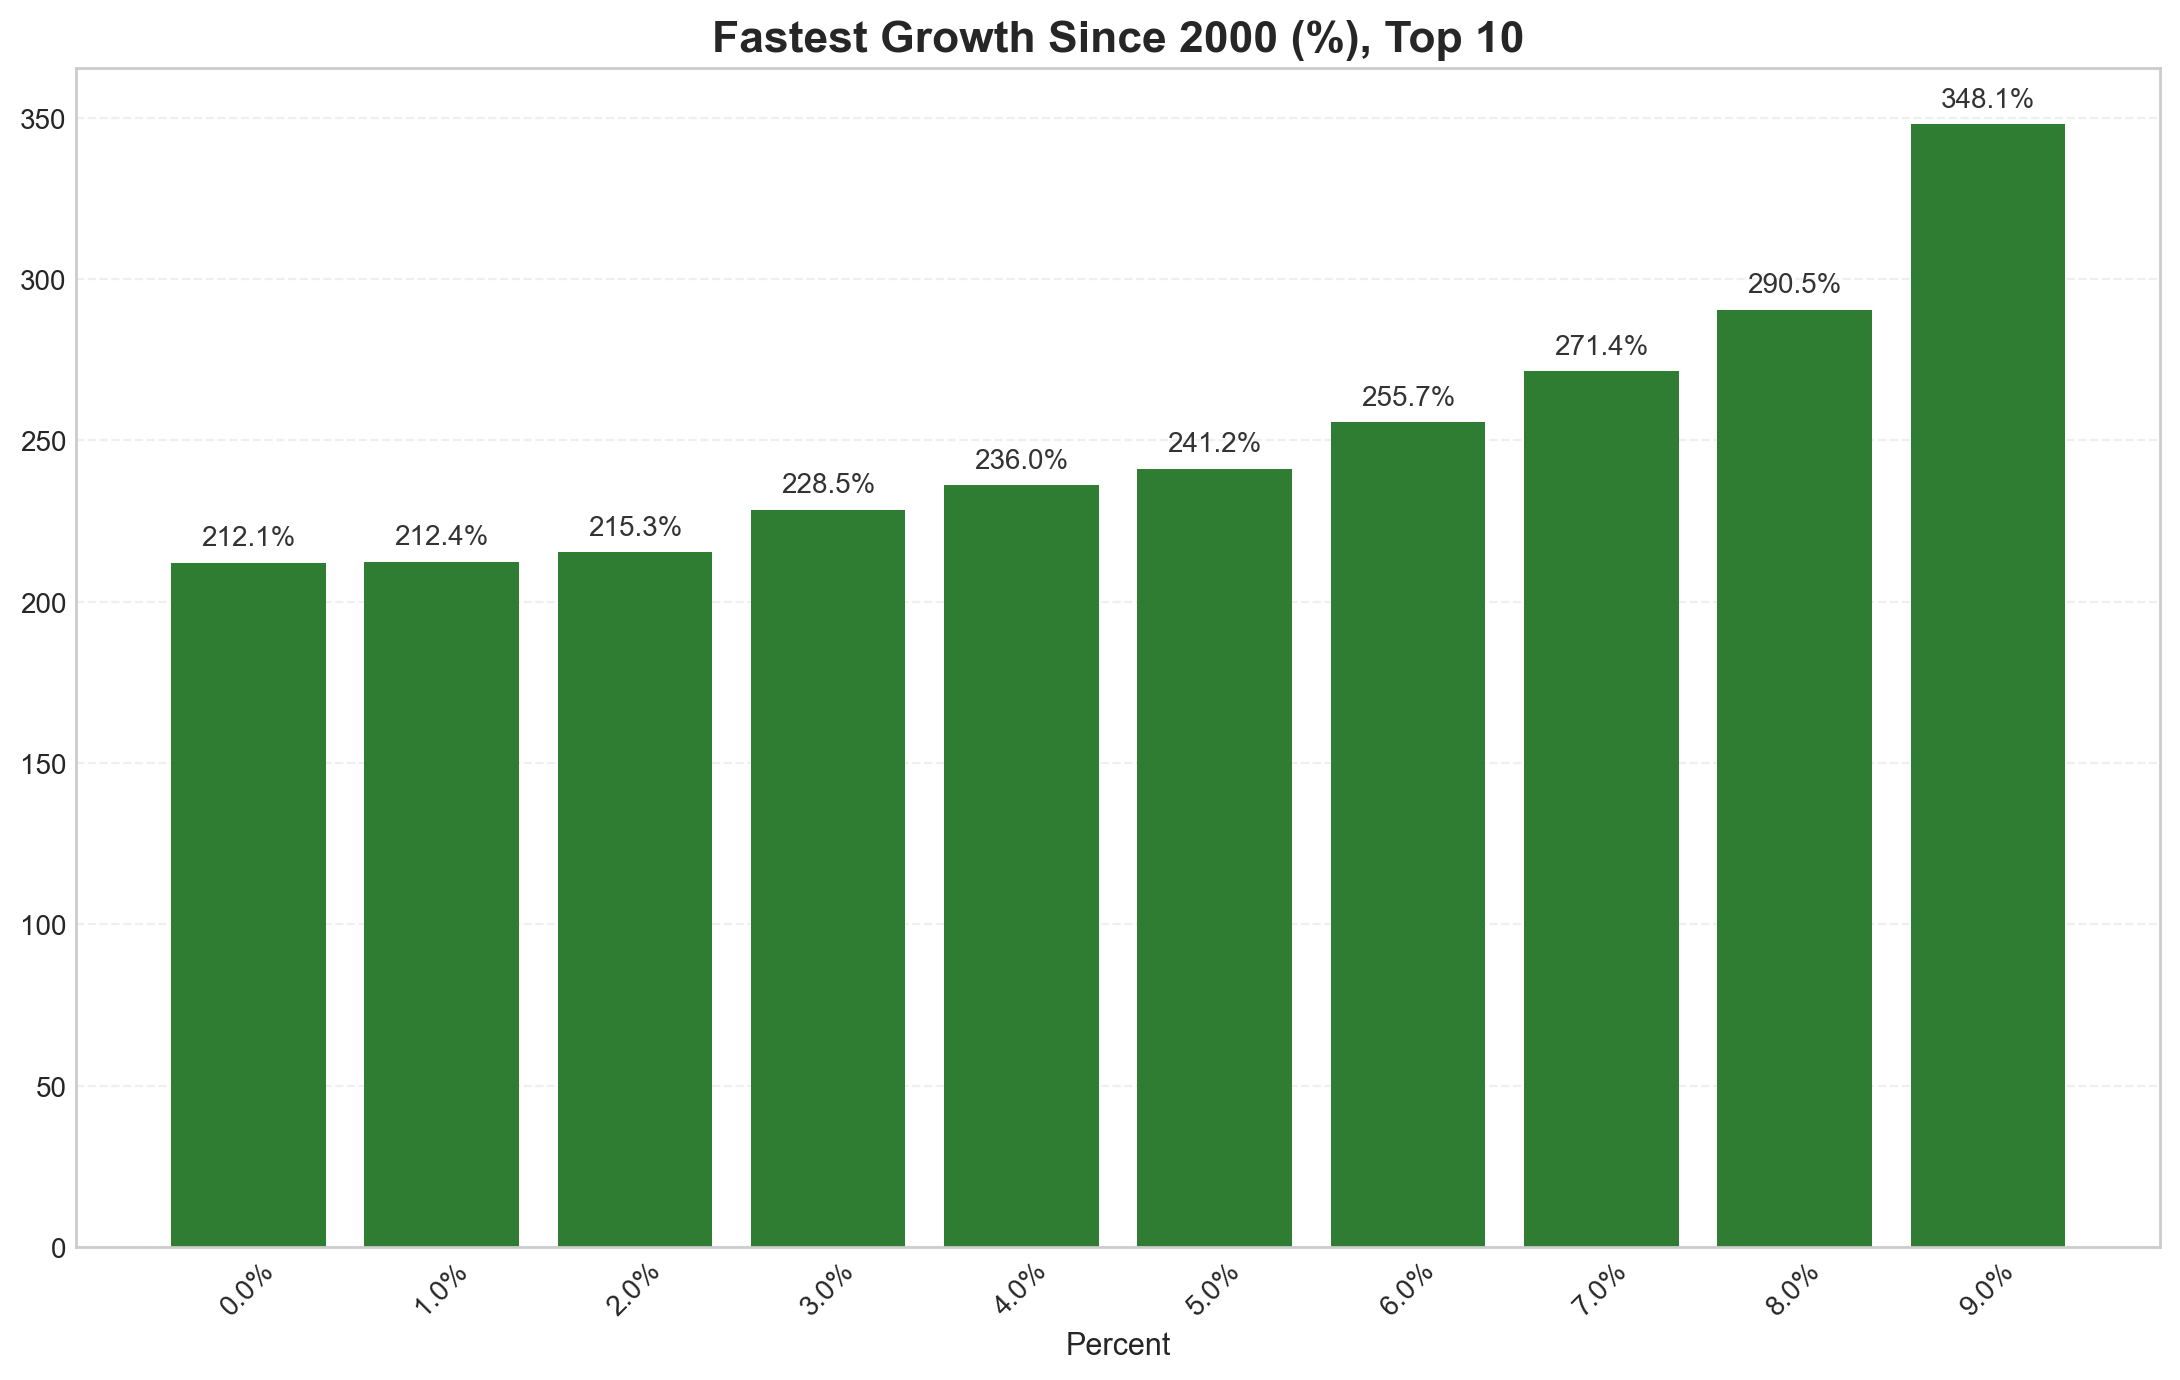
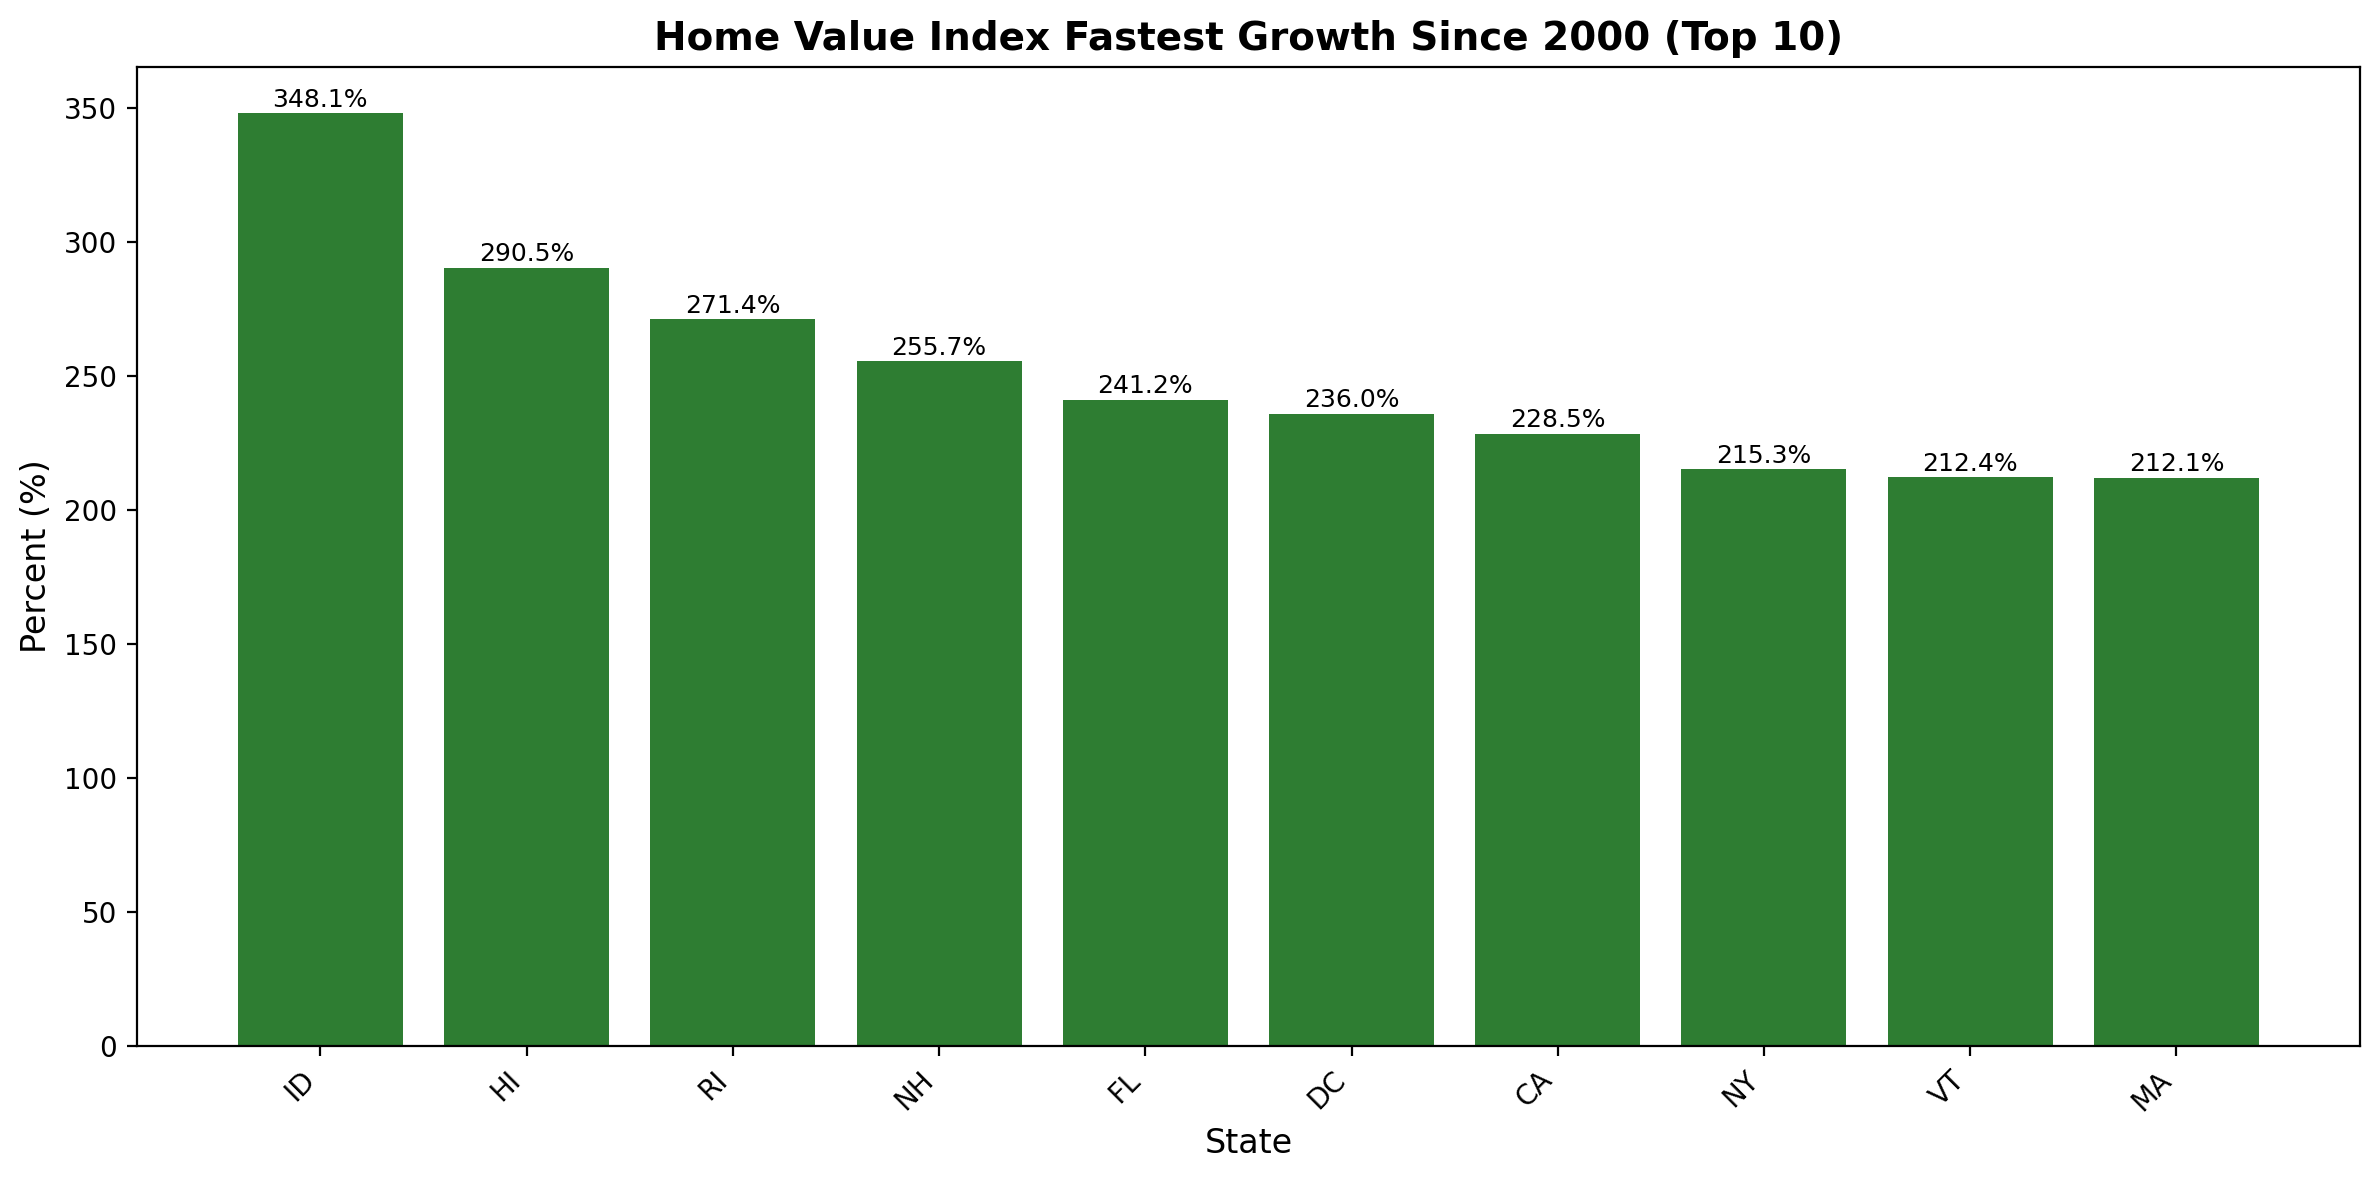
Update chart: new title, Y-axis with %, X-axis states, highest values on left

Changed region(s): [[0.0, 0.0, 0.9982, 1.0], [0.0, 0.3051, 0.0624, 0.3356], [0.0, 0.1831, 0.0624, 0.2136]]

diff --git a/housing-portfolio/scripts/run_analysis.py b/housing-portfolio/scripts/run_analysis.py
@@ -10,7 +10,6 @@ from pathlib import Path
 import duckdb
 import pandas as pd
 import matplotlib.pyplot as plt
-import matplotlib.ticker as mtick
 
 REPO = Path(__file__).resolve().parents[1]
 DATA = REPO / "data"
@@ -40,72 +39,30 @@ def df_to_csv(df: pd.DataFrame, name: str):
     df.to_csv(out, index=False)
     print(f"[ok] wrote {out}")
 
-def bar_chart(
-    df: pd.DataFrame,
-    x: str,
-    y: str,
-    title: str,
-    filename: str,
-    top_n: int = 10,
-    orientation: str = "horizontal",
-):
-    # Sort, take Top-N, and reverse for horizontal barh (largest at top)
-    df_plot = df.sort_values(y, ascending=False).head(top_n).iloc[::-1]
-
-    # Use a clean, professional style
-    plt.style.use("seaborn-v0_8-whitegrid")
-    fig, ax = plt.subplots(figsize=(11, 7), dpi=160)
-
-    if orientation == "vertical":
-        bars = ax.bar(df_plot[x], df_plot[y], color="#2E7D32")
-        ax.set_title(title, fontsize=16, fontweight="bold")
-        ax.set_xlabel("State", fontsize=12)
-        ax.tick_params(axis="x", labelsize=10, rotation=45)
-    else:
-        bars = ax.barh(df_plot[x], df_plot[y], color="#2E7D32")
-        ax.set_title(title, fontsize=16, fontweight="bold")
-        ax.set_ylabel("State", fontsize=12)
-        ax.tick_params(axis="y", labelsize=11)
-
-    # If y looks like a percent metric, format axis and labels accordingly
-    is_percent = ("pct" in y.lower()) or ("%" in title)
-    if is_percent:
-        ax.xaxis.set_major_formatter(mtick.PercentFormatter(xmax=100))
-        value_fmt = lambda v: f"{v:.1f}%"
-        ax.set_xlabel("Percent", fontsize=11)
-    else:
-        value_fmt = lambda v: f"{v:,.2f}"
-
-    # Subtle gridlines
-    if orientation == "vertical":
-        ax.grid(axis="y", linestyle="--", alpha=0.3)
-        ax.grid(False, axis="x")
-    else:
-        ax.grid(axis="x", linestyle="--", alpha=0.3)
-        ax.grid(False, axis="y")
-
-    # Annotate values at bar ends
+def bar_chart(df: pd.DataFrame, x: str, y: str, title: str, filename: str, top_n: int = 10):
+    if top_n and len(df) > top_n:
+        df = df.sort_values(y, ascending=False).head(top_n)
+    
+    # Sort with highest values on the left (ascending=False)
+    df = df.sort_values(y, ascending=False)
+    
+    plt.figure(figsize=(12, 6))
+    bars = plt.bar(df[x], df[y], color="#2E7D32")
+    plt.title(title, fontsize=14, fontweight="bold")
+    plt.xlabel("State", fontsize=12)
+    plt.ylabel("Percent (%)", fontsize=12)
+    plt.xticks(rotation=45, ha="right")
+    
+    # Add value labels on top of bars
     for bar in bars:
-        if orientation == "vertical":
-            height = bar.get_height()
-            ax.text(bar.get_x() + bar.get_width() / 2,
-                    height + (max(df_plot[y]) * 0.01),
-                    value_fmt(height),
-                    va="bottom", ha="center", fontsize=10, color="#333333", rotation=0)
-        else:
-            width = bar.get_width()
-            ax.text(width + (max(df_plot[y]) * 0.01),
-                    bar.get_y() + bar.get_height() / 2,
-                    value_fmt(width),
-                    va="center", ha="left", fontsize=10, color="#333333")
-
-    # Ensure enough left margin for long state names
-    fig.tight_layout()
-    if orientation != "vertical":
-        fig.subplots_adjust(left=0.28)
+        height = bar.get_height()
+        plt.text(bar.get_x() + bar.get_width()/2., height + 0.5,
+                f'{height:.1f}%', ha='center', va='bottom', fontsize=9)
+    
+    plt.tight_layout()
     out = FIGS / f"{filename}.png"
-    fig.savefig(out, dpi=200, bbox_inches="tight")
-    plt.close(fig)
+    plt.savefig(out, dpi=200, bbox_inches="tight")
+    plt.close()
     print(f"[ok] wrote {out}")
 
 def run_queries(con: duckdb.DuckDBPyConnection):
@@ -136,16 +93,43 @@ def run_queries(con: duckdb.DuckDBPyConnection):
     """
     df1 = con.execute(q1).df()
     df_to_csv(df1, "fastest_growth_since_2000")
-    bar_chart(
-        df1,
-        "statename",
-        "pct_growth",
-        "Fastest Growth Since 2000 (%), Top 10",
-        "fastest_growth_top10",
-        orientation="vertical",
-    )
+    bar_chart(df1, "statename", "pct_growth", "Home Value Index Fastest Growth Since 2000 (Top 10)", "fastest_growth_top10")
 
-    # 2) Hardest hit 2007 -> 2009 (removed by request)
+    # 2) Hardest hit 2007 -> 2009
+    q2 = """
+    WITH state_year AS (
+      SELECT statename, year, AVG(yearlyindex) AS avg_index
+      FROM home_values_yearly_clean
+      WHERE yearlyindex IS NOT NULL AND year IN (2007, 2009)
+      GROUP BY 1,2
+    ),
+    crisis_base AS (
+      SELECT
+        statename,
+        MAX(CASE WHEN year = 2007 THEN avg_index END) AS idx_2007,
+        MAX(CASE WHEN year = 2009 THEN avg_index END) AS idx_2009
+      FROM state_year
+      GROUP BY 1
+    )
+    SELECT
+      statename,
+      ROUND(((idx_2009 - idx_2007) / idx_2007) * 100, 2) AS pct_change_07_09
+    FROM crisis_base
+    WHERE idx_2007 IS NOT NULL AND idx_2009 IS NOT NULL
+    ORDER BY pct_change_07_09 ASC;
+    """
+    df2 = con.execute(q2).df()
+    df_to_csv(df2, "hardest_hit_2007_2009")
+    df2_plot = df2.sort_values("pct_change_07_09").head(10)
+    plt.figure()
+    plt.bar(df2_plot["statename"], df2_plot["pct_change_07_09"])
+    plt.title("Hardest Hit 2007→2009 (% change), Worst 10")
+    plt.xticks(rotation=45, ha="right")
+    plt.tight_layout()
+    out = FIGS / "hardest_hit_2007_2009_worst10.png"
+    plt.savefig(out, dpi=160)
+    plt.close()
+    print(f"[ok] wrote {out}")
 
     # 3) Volatility (std dev of YoY % changes)
     q3 = """
@@ -174,14 +158,7 @@ def run_queries(con: duckdb.DuckDBPyConnection):
     """
     df3 = con.execute(q3).df()
     df_to_csv(df3, "volatility_by_state")
-    bar_chart(
-        df3,
-        "statename",
-        "yoy_volatility_pct",
-        "YoY Volatility by State (%), Top 10",
-        "volatility_top10",
-        orientation="vertical",
-    )
+    bar_chart(df3, "statename", "yoy_volatility_pct", "YoY Volatility by State (%), Top 10", "volatility_top10")
 
     # 4) Gap widened 2000 vs 2025
     q4 = """
